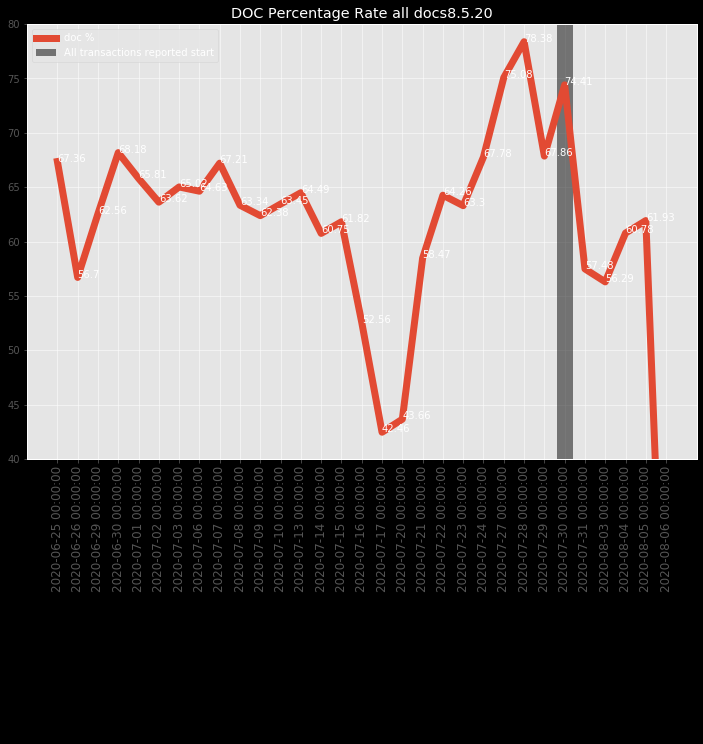
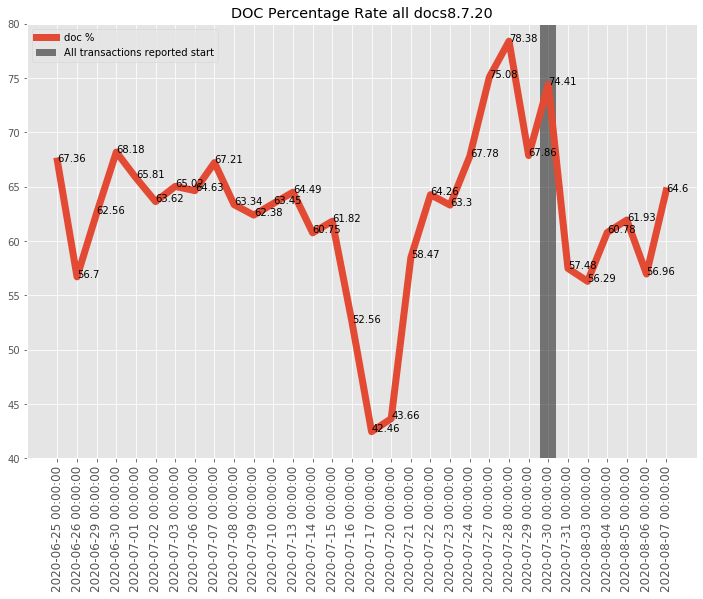
changes

diff --git a/Weekly.html b/Weekly.html
@@ -26,7 +26,7 @@
     </figure>
     <div class='center'>
     </div>
-    <iframe src="https://chart-studio.plotly.com/~mshuff/723.embed" width="1000" height="1000" allowfullscreen="allowfullscreen" class="center"></iframe>
+    <iframe src="https://chart-studio.plotly.com/~mshuff/741.embed" width="1000" height="1000" allowfullscreen="allowfullscreen" class="center"></iframe>
     </p>
     <br>
     <img src='July Doc Processing Counts(Weekdays Only).png' height='750px' width='1200px' class='center'>
